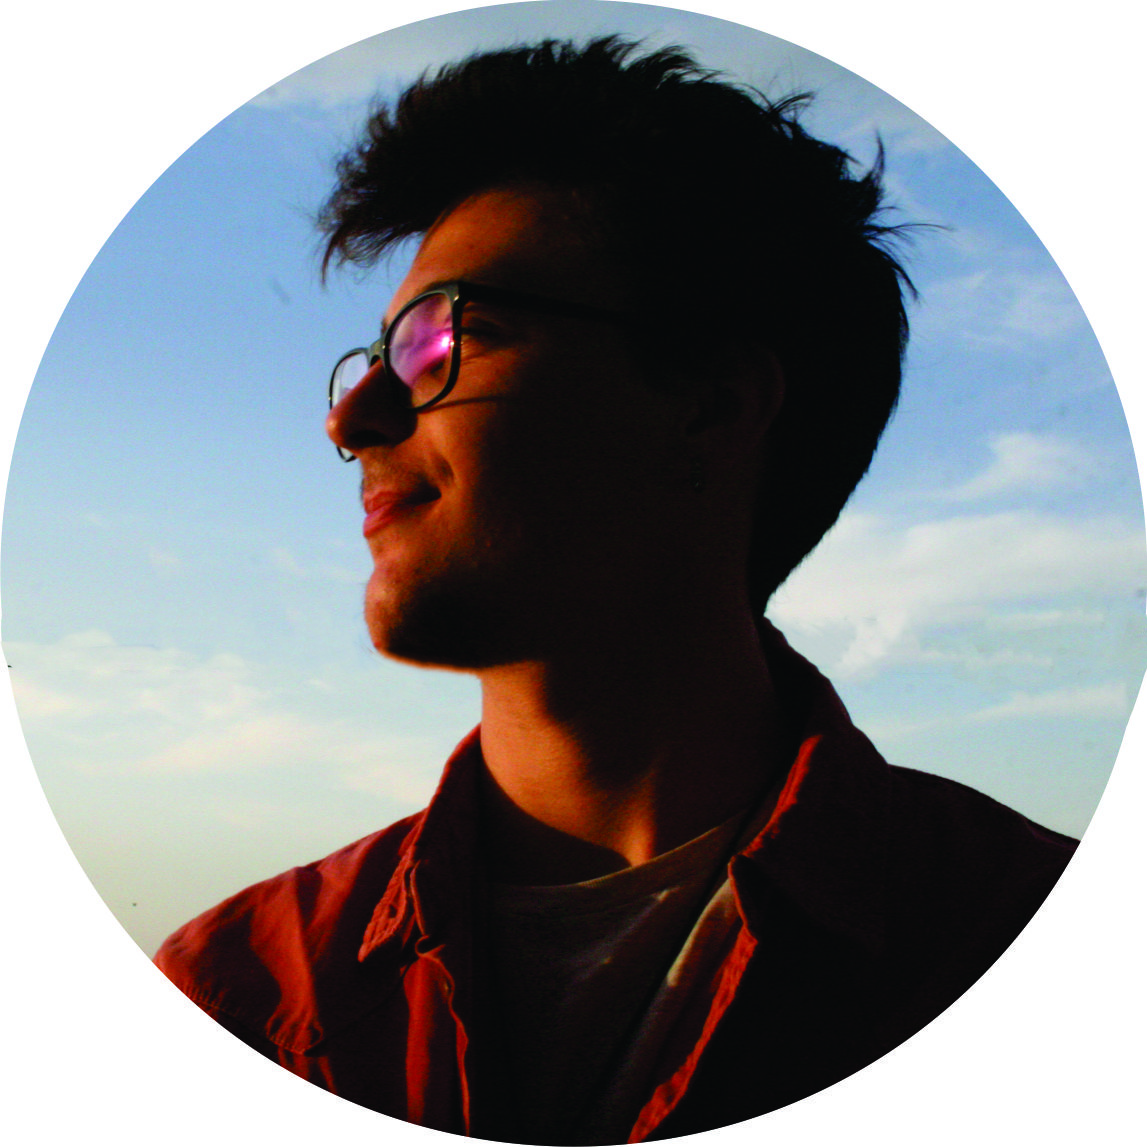
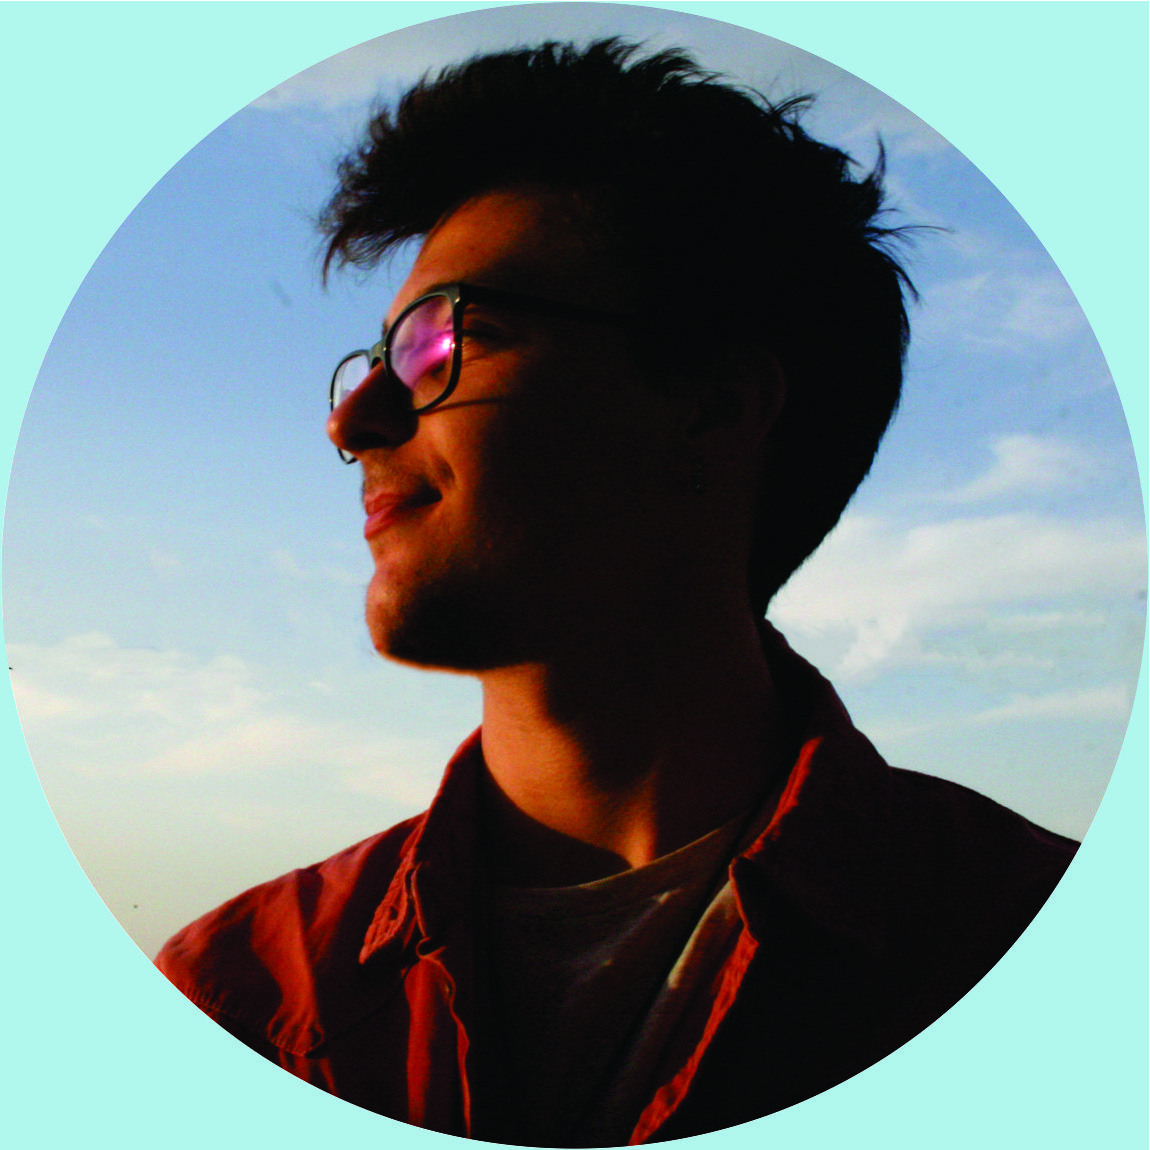
Further styling with HTML only

diff --git a/index.html b/index.html
@@ -3,34 +3,33 @@
         <meta charset = "utf-8">
         <title>Dren's personal site</title>
     </head>
-    <body>
-        <table>
-            <tr>
-                <td> <img src="Web profile.jpg" height:"250", width="300"></td>
-                <td>
-                    <h1>Dren Sokoli</h1>
-                    <p><em>Student at <strong>UBT</strong>.</em></p>
+    <body style="background-color: #ADD8E6">
+    <body> 
+        <center>
+        <h1>Dren Sokoli</h1>
+        <img src="Web profile.jpg" height:"250", width="300">
+        <p> I study Computer Science and Engineering at<em>I<strong>UBT</strong>.</em></p>
                     <p>
-                        I work as a blogger for Spotted by Locals <br> and write about my home town of Prishtina. 
+                        My day job is "Designing consultant" at Ricoh,
+                        <br> but I also work as a blogger for Spotted by Locals 
+                        <br> and write about my home town of Prishtina. 
                        </p> 
-                       <p>I also love music and play guitar.</p> 
-                     
-                </td>    
-            </tr>
-        </table>
+        </center>
+        
             
         <hr size= "4">
-       <h3>My articles</h3>
+
+        <center><h3>My articles</h3></center>
+       
        <ul>
-           <li> <a href="https://www.spottedbylocals.com/prishtina/dukagjini/">Dukagjini bookstore. Worlds within worlds</a> </li>
-           <li> <a href="https://www.spottedbylocals.com/prishtina/pasta-fasta/"> Pasta Fasta. An innovative idea</a></li>
+          
+            <li> <a href="https://www.spottedbylocals.com/prishtina/defy-them/">Defy Them – The local metal family</li>
+            <li ><a href="https://www.spottedbylocals.com/prishtina/xportal/">XPortal – The gamer’s den</li>
+            <li> <a href="https://www.spottedbylocals.com/prishtina/dukagjini/">Dukagjini bookstore. Worlds within worlds</a> </li>
+            <li> <a href="https://www.spottedbylocals.com/prishtina/pasta-fasta/"> Pasta Fasta. An innovative idea</a></li>
        </ul>
-       <h3>My favorite songs</h3>
-       <ol>
-           <li> <a href="https://www.youtube.com/watch?v=BGHlZwMYO9g">L'enfaunt sauvage</a> </li>
-           <li> <a href="https://www.youtube.com/watch?v=fGPfdW7OSY4">Reclamation</a> </li>
-       </ol>
-       </h3>
+       <h4><em>Find more of these at </em><a href="https://www.spottedbylocals.com/prishtina/author/drensokoli/">spottedbylocals.com</a></h4>
+ 
        <hr>
        <table> 
            <thead>
@@ -82,10 +81,6 @@
                         <tr>
                             <td>Programming</td>
                             <td>⭐</td>
-                        </tr>
-                        <tr>
-                            <td>Cooking</td>
-                            <td>⭐⭐⭐⭐</td>
                         </tr>
                     </table>
                     

diff --git a/contact.html b/contact.html
@@ -1,24 +1,39 @@
 <html>
     <head>
-        <h3>Tel: 049 313 786 </h3>
-        <h3> <a href="https://github.com/drensokoli">GitHub</a> </h3>
-        <h3> <a href="bridega#6315">Discord</a> </h3>
+        <br>
+        <br>
+        <br>
+        <br>
+        <br>
+        <br>
+        <br>
 
+        <center>
+            <h2>Check out my profile on Github on <a href="https://github.com/drensokoli">GitHub</a> </h2>
+            <h3>Contact me by <a href="drensokoli@gmail.com"> email</a> </h3>
+
+
+
+        </center>
+
+
+       
         <form action="mailto:drensokoli@gmail.com" method="POST" enctype="text/plain">
             <div>
-                <label for="name">Name</label>
+                <label for="name">Your name:</label>
                 <input type="text">
             </div>
             
             <div>
-                <label for="email">Email</label>
+                <label for="email">Your email:</label>
                 <input type="text">
             </div>
            <div>
                <label for="message">Your message:</label>
-                <textarea name="message" id="message" cols="30" rows="10"></textarea>
+                <textarea name="message" id="" cols="30" rows="3"></textarea>
            </div>
-            <div> <input type="submit"></div>
+           <center><div> <input type="submit"></div></center>
+            
            
         </form>
 
